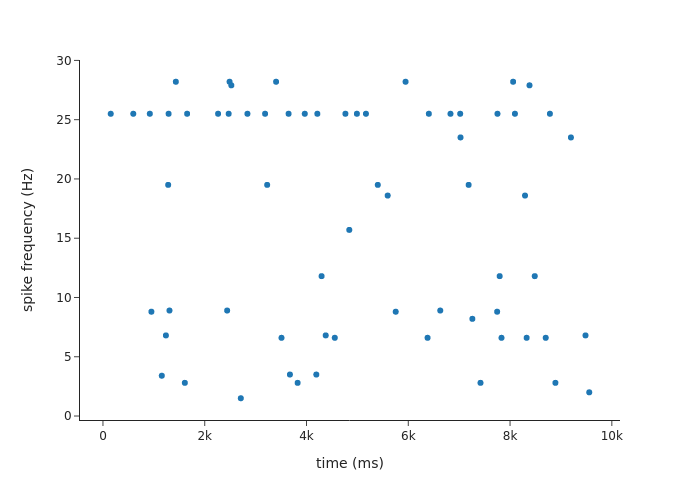
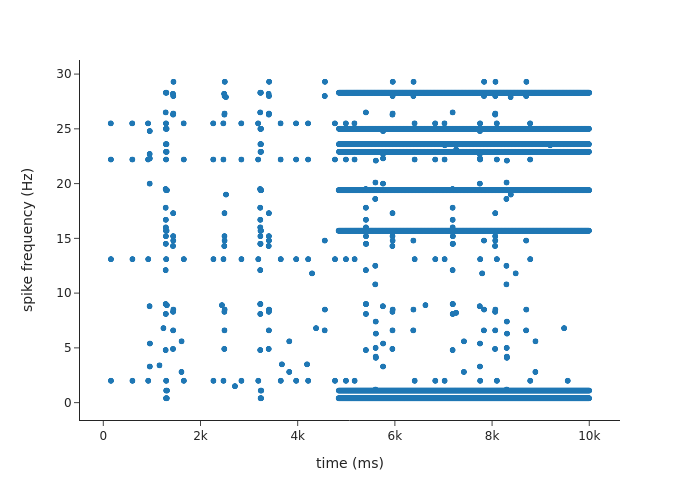
cutted 0

diff --git a/stats.py b/stats.py
@@ -1,0 +1,95 @@
+import scipy
+from scipy.stats import linregress
+import plotly.express as px
+import plotly.graph_objects as go
+import plotly.io as pio
+import numpy as np
+
+class RegressionImage:
+    def __init__(self, x, regression_info):
+        xmin = min(x)
+        xmax = max(x)
+        y1 = calc_regression_point(regression_info, xmin)
+        y_fin = calc_regression_point(regression_info, xmax)
+        self.x = [xmin, xmax]
+        self.y = [y1, y_fin]
+
+def calc_regression_point(regression_info, x=0):
+    return x * regression_info.slope + regression_info.intercept
+
+def obtain_regression_image(regression_info, domain):
+    return RegressionImage(domain, regression_info)
+
+def plot_regression(plot, yaxis, regr, x, y, info_regression):
+    plot.add_trace(go.Scatter(x= x, y= y, mode= "markers"))
+    plot.add_trace(go.Scatter(x= regr.x, y= regr.y, mode= "lines+text", name= "Regression", text=info_regression.rvalue**2))
+    plot.update_layout(xaxis_title="g_L", yaxis_title=yaxis)
+    plot.show()
+
+g_Ls = np.array([1.0, 2.0, 3.0, 4.0, 5.0, 6.0, 7.0, 8.0, 9.0, 10.0, 11.0, 12.0, 13.0, 14.0, 15.0, 16.0, 17.0, 18.0, 19.0, 20.0, 21.0, 22.0, 23.0, 24.0, 25.0, 26.0, 27.0, 28.0, 29.0, 30.0, 31.0, 32.0, 33.0, 34.0, 35.0, 36.0, 37.0, 38.0, 39.0, 40.0, 41.0, 42.0, 43.0, 44.0, 45.0, 46.0, 47.0, 48.0, 49.0, 50.0, 51.0, 52.0, 53.0, 54.0, 55.0, 56.0, 57.0, 58.0, 59.0, 60.0, 61.0, 62.0, 63.0, 64.0, 65.0, 66.0, 67.0, 68.0, 69.0, 70.0, 71.0, 72.0, 73.0, 74.0, 75.0, 76.0, 77.0, 78.0, 79.0, 80.0, 81.0, 82.0, 83.0, 84.0, 85.0, 86.0, 87.0, 88.0, 89.0, 90.0, 91.0, 92.0, 93.0, 94.0, 95.0, 96.0, 97.0, 98.0, 99.0, 100.0, 101.0])
+rheobase_freqs = np.array([11, 11, 11, 11, 20, 20, 20, 20, 20, 91, 91, 91, 95, 95, 123, 143, 143, 143, 143, 143, 164, 164, 164, 164, 225, 225, 225, 225, 225, 260, 260, 260, 260, 260, 260, 260, 260, 260, 260, 263, 263, 263, 263, 263, 263, 263, 337, 337, 337, 337, 372, 372, 372, 372, 372, 372, 372, 372, 372, 372, 372, 372, 570, 570, 594, 594, 594, 594, 594, 594, 594, 712, 712, 712, 712, 712, 712, 712, 712, 712, 712, 712, 712, 712])
+freqs_350 = np.array([12.0, 11.0, 10.0, 9.0, 9.0, 9.0, 9.0, 9.0, 9.0, 9.0, 8.0, 8.0, 7.0, 6.0, 6.0, 6.0, 6.0, 6.0, 5.0, 4.0, 4.0, 4.0, 4.0, 4.0, 4.0, 4.0, 4.0, 3.0, 2.0, 2.0, 2.0, 2.0, 2.0, 2.0, 2.0, 2.0, 2.0, 2.0, 2.0, 2.0, 2.0, 2.0, 2.0, 2.0, 1.0, 1.0, 1.0, 1.0, 1.0, 1.0, 0.0, 0.0, 0.0, 0.0, 0.0, 0.0, 0.0, 0.0, 0.0, 0.0, 0.0, 0.0, 0.0, 0.0, 0.0, 0.0, 0.0, 0.0, 0.0, 0.0, 0.0, 0.0, 0.0, 0.0, 0.0, 0.0, 0.0, 0.0, 0.0, 0.0, 0.0, 0.0, 0.0, 0.0, 0.0, 0.0, 0.0, 0.0, 0.0, 0.0, 0.0, 0.0, 0.0, 0.0, 0.0, 0.0, 0.0, 0.0, 0.0, 0.0, 0.0])
+freqs_500 = np.array([13.0, 12.0, 13.0, 11.0, 11.0, 11.0, 10.0, 10.0, 10.0, 9.0, 9.0, 9.0, 9.0, 9.0, 8.0, 8.0, 8.0, 8.0, 8.0, 7.0, 7.0, 6.0, 6.0, 6.0, 6.0, 6.0, 6.0, 6.0, 5.0, 5.0, 5.0, 4.0, 4.0, 4.0, 4.0, 4.0, 3.0, 3.0, 3.0, 2.0, 2.0, 2.0, 2.0, 2.0, 1.0, 1.0, 1.0, 1.0, 1.0, 1.0, 1.0, 1.0, 1.0, 1.0, 1.0, 1.0, 1.0, 1.0, 1.0, 1.0, 1.0, 1.0, 0.0, 0.0, 0.0, 0.0, 0.0, 0.0, 0.0, 0.0, 0.0, 0.0, 0.0, 0.0, 0.0, 0.0, 0.0, 0.0, 0.0, 0.0, 0.0, 0.0, 0.0, 0.0, 0.0, 0.0, 0.0, 0.0, 0.0, 0.0, 0.0, 0.0, 0.0, 0.0, 0.0, 0.0, 0.0, 0.0, 0.0, 0.0, 0.0])
+freqs_750 = np.array([16.0, 16.0, 14.0, 14.0, 14.0, 14.0, 13.0, 13.0, 13.0, 13.0, 13.0, 13.0, 11.0, 11.0, 11.0, 11.0, 11.0, 10.0, 10.0, 10.0, 10.0, 10.0, 9.0, 9.0, 8.0, 8.0, 8.0, 8.0, 8.0, 7.0, 7.0, 7.0, 6.0, 6.0, 6.0, 6.0, 5.0, 5.0, 4.0, 4.0, 4.0, 4.0, 3.0, 3.0, 3.0, 3.0, 3.0, 3.0, 2.0, 2.0, 2.0, 2.0, 2.0, 2.0, 2.0, 2.0, 1.0, 1.0, 1.0, 1.0, 1.0, 1.0, 1.0, 1.0, 1.0, 1.0, 1.0, 1.0, 1.0, 1.0, 1.0, 1.0, 1.0, 1.0, 1.0, 1.0, 1.0, 1.0, 1.0, 1.0, 1.0, 1.0, 1.0, 1.0, 0.0, 0.0, 0.0, 0.0, 0.0, 0.0, 0.0, 0.0, 0.0, 0.0, 0.0, 0.0, 0.0, 0.0, 0.0, 0.0, 0.0])
+freqs_1000 = np.array([18.0, 18.0, 18.0, 17.0, 17.0, 17.0, 17.0, 17.0, 17.0, 16.0, 16.0, 16.0, 16.0, 15.0, 15.0, 15.0, 15.0, 15.0, 15.0, 15.0, 14.0, 14.0, 13.0, 13.0, 13.0, 12.0, 12.0, 11.0, 11.0, 11.0, 10.0, 10.0, 10.0, 10.0, 10.0, 10.0, 9.0, 8.0, 8.0, 8.0, 8.0, 8.0, 8.0, 8.0, 7.0, 7.0, 7.0, 6.0, 6.0, 6.0, 6.0, 6.0, 6.0, 6.0, 5.0, 4.0, 4.0, 4.0, 4.0, 4.0, 4.0, 4.0, 3.0, 3.0, 3.0, 3.0, 3.0, 3.0, 2.0, 2.0, 2.0, 2.0, 2.0, 2.0, 2.0, 1.0, 1.0, 1.0, 1.0, 1.0, 1.0, 1.0, 1.0, 1.0, 0.0, 0.0, 0.0, 0.0, 0.0, 0.0, 0.0, 0.0, 0.0, 0.0, 0.0, 0.0, 0.0, 0.0, 0.0, 0.0, 0.0])
+g_Ls_for_rheobase = g_Ls[:len(rheobase_freqs)]
+freqs_350_nonzero = freqs_350[:np.count_nonzero(freqs_350)]
+g_Ls_350 = g_Ls[:len(freqs_350_nonzero)]
+freqs_500_nonzero = freqs_500[:np.count_nonzero(freqs_500)]
+g_Ls_500 = g_Ls[:len(freqs_500_nonzero)]
+freqs_750_nonzero = freqs_750[:np.count_nonzero(freqs_750)]
+g_Ls_750 = g_Ls[:len(freqs_750_nonzero)]
+freqs_1000_nonzero = freqs_1000[:np.count_nonzero(freqs_1000)]
+g_Ls_1000 = g_Ls[:len(freqs_1000_nonzero)]
+
+""" i don't want to lose all this stuff :(
+results_rheobase = scipy.stats.linregress(g_Ls_for_rheobase, rheobase_freqs)
+results_350 = scipy.stats.linregress(g_Ls, freqs_350)
+results_500 = scipy.stats.linregress(g_Ls, freqs_500)
+results_750 = scipy.stats.linregress(g_Ls, freqs_750)
+results_1000 = scipy.stats.linregress(g_Ls, freqs_1000)
+
+regr_rheobase = obtain_regression_image(results_rheobase, g_Ls_for_rheobase)
+regr_350 = obtain_regression_image(results_350, g_Ls)
+regr_500 = obtain_regression_image(results_500, g_Ls)
+regr_750 = obtain_regression_image(results_750, g_Ls)
+regr_1000 = obtain_regression_image(results_1000, g_Ls)
+
+pio.templates.default = "simple_white" # Sets the plotly default theme
+plot1 = px.scatter()
+plot2 = px.scatter()
+plot3 = px.scatter()
+plot4 = px.scatter()
+plot5 = px.scatter()
+
+plot_regression(plot1, "Rheobase frequency", regr_rheobase, g_Ls_for_rheobase, rheobase_freqs, results_rheobase)
+plot_regression(plot2, "Spikes/s at 350Hz input", regr_350, g_Ls, freqs_350, results_350)
+plot_regression(plot3, "Spikes/s at 500Hz input", regr_500, g_Ls, freqs_500, results_500)
+plot_regression(plot4, "Spikes/s at 750Hz input", regr_750, g_Ls, freqs_750, results_750)
+plot_regression(plot5, "Spikes/s at 1000Hz input", regr_1000, g_Ls, freqs_1000, results_1000)
+"""
+
+results_rheobase = scipy.stats.linregress(g_Ls_for_rheobase, rheobase_freqs)
+results_350 = scipy.stats.linregress(g_Ls_350, freqs_350_nonzero)
+results_500 = scipy.stats.linregress(g_Ls_500, freqs_500_nonzero)
+results_750 = scipy.stats.linregress(g_Ls_750, freqs_750_nonzero)
+results_1000 = scipy.stats.linregress(g_Ls_1000, freqs_1000_nonzero)
+
+regr_rheobase = obtain_regression_image(results_rheobase, g_Ls_for_rheobase)
+regr_350 = obtain_regression_image(results_350, g_Ls_350)
+regr_500 = obtain_regression_image(results_500, g_Ls_500)
+regr_750 = obtain_regression_image(results_750, g_Ls_750)
+regr_1000 = obtain_regression_image(results_1000, g_Ls_1000)
+
+pio.templates.default = "simple_white" # Sets the plotly default theme
+plot1 = px.scatter()
+plot2 = px.scatter()
+plot3 = px.scatter()
+plot4 = px.scatter()
+plot5 = px.scatter()
+
+plot_regression(plot1, "Rheobase frequency", regr_rheobase, g_Ls_for_rheobase, rheobase_freqs, results_rheobase)
+plot_regression(plot2, "Spikes/s at 350Hz input", regr_350, g_Ls_350, freqs_350_nonzero, results_350)
+plot_regression(plot3, "Spikes/s at 500Hz input", regr_500, g_Ls_500, freqs_500_nonzero, results_500)
+plot_regression(plot4, "Spikes/s at 750Hz input", regr_750, g_Ls_750, freqs_750_nonzero, results_750)
+plot_regression(plot5, "Spikes/s at 1000Hz input", regr_1000, g_Ls_1000, freqs_1000_nonzero, results_1000)

diff --git a/first_network/script.py b/first_network/script.py
@@ -3,56 +3,60 @@ import plotly.express as px
 import plotly.io as pio
 
 #network setting
-n = 300 #neurons
-p = .003 #connection probability
-n_recorded = 50 #neuron recorded
-n_excited = 20 #neuron excited by input
-conn_dict = {"rule": "pairwise_bernoulli", "p": p}
-weight = 1.0
-syn_dict = {"model": "stdp_synapse", "weight": weight}
-#simulation setting
-scale_size = 1000.0
-time = 10.0 * scale_size
-rec_dic = {"rule": "fixed_total_number", "N": n_recorded}
-#neuron model
-params = {
-    "t_ref": 1.59,
-    "C_m": 14.6,
-    "V_th": -60.0,
-    "V_reset": -78.0,
-    "E_L": -66.0,
-    "tau_syn_ex": 0.64,
-    "tau_syn_in": 2.0
-}
-nest.CopyModel("aeif_cond_alpha", "leaky_i_f", params=params)
-#input
-input_dict = {"rate": 150.0}
-input_conn = {"rule": "fixed_total_number", "N": n_excited}
+def create_network(n=300, p=.003):
+    n = 300 #neurons
+    p = .003 #connection probability
+    n_recorded = 50 #neuron recorded
+    n_excited = 20 #neuron excited by input
+    conn_dict = {"rule": "pairwise_bernoulli", "p": p}
+    weight = 5.0
+    syn_dict = {"model": "stdp_synapse", "weight": weight}
+    #simulation setting
+    scale_size = 1000.0
+    time = 10.0 * scale_size
+    rec_dic = {"rule": "fixed_total_number", "N": n_recorded}
+    #neuron model
+    params = {
+        "t_ref": 1.59,
+        "C_m": 14.6,
+        "V_th": -60.0,
+        "V_reset": -78.0,
+        "E_L": -66.0,
+        "tau_syn_ex": 0.64,
+        "tau_syn_in": 2.0
+    }
+    nest.CopyModel("aeif_cond_alpha", "leaky_i_f", params=params)
+    #input
+    input_dict = {"rate": 150.0}
+    input_conn = {"rule": "fixed_total_number", "N": n_excited}
 
-nest.ResetKernel()
-nest.CopyModel("aeif_cond_alpha", "leaky_i_f", params=params)
+    nest.ResetKernel()
+    nest.CopyModel("aeif_cond_alpha", "leaky_i_f", params=params)
 
-#building network
-input_curr = nest.Create("poisson_generator", params = input_dict)
-neuron_pop = nest.Create("leaky_i_f", n, params = params)
+    #building network
+    input_curr = nest.Create("poisson_generator", params = input_dict)
+    neuron_pop = nest.Create("leaky_i_f", n, params = params)
 
-nest.Connect(input_curr, neuron_pop, input_conn) #input
-nest.Connect(neuron_pop, neuron_pop, conn_dict, syn_spec= syn_dict) #inter-network connections
-#recording
-spikeDet = nest.Create("spike_detector", n_recorded, params = {"withgid": True, "withtime": True})
-nest.Connect(neuron_pop, spikeDet)
-#simulating
-nest.Simulate(time)
+    nest.Connect(input_curr, neuron_pop, input_conn) #input
+    nest.Connect(neuron_pop, neuron_pop, conn_dict, syn_spec= syn_dict) #inter-network connections
+    #recording
+    spikeDet = nest.Create("spike_detector", params = {"withgid": True, "withtime": True})
+    nest.Connect(neuron_pop, spikeDet)
+    #simulating
+    nest.Simulate(time)
 
-#recording vars
-var = nest.GetStatus(spikeDet, keys = "events")[0]
-spikes = var["senders"]
-spike_freq = spikes * scale_size / time
-t = var["times"]
-#plotting
-pio.templates.default = "simple_white" # Sets the plotly default theme
-plot = px.scatter(x = t, y = spike_freq, labels = { 'x': 'time (ms)', 'y': 'spike frequency (Hz)' })
-plot.show()
-#plot.write_image("plots/rheobase_freq_noprop.png")
-plot.write_image("plots/rheobase_freq_prop.png")
-#plot.write_image("plots/rheobase_freq_highprop.png")
+    #recording vars
+    var = nest.GetStatus(spikeDet, keys = "events")
+    print(var)
+    spikes = var[0]["senders"]
+    spike_freq = spikes * scale_size / time
+    t = var[0]["times"]
+    #plotting
+    pio.templates.default = "simple_white" # Sets the plotly default theme
+    plot = px.scatter(x = t, y = spike_freq, labels = { 'x': 'time (ms)', 'y': 'spike frequency (Hz)' })
+    plot.show()
+    #plot.write_image("plots/rheobase_freq_noprop.png")
+    plot.write_image("plots/rheobase_freq_prop.png")
+    #plot.write_image("plots/rheobase_freq_highprop.png")
+
+create_network()

diff --git a/g_L_investigation/single_point.py b/g_L_investigation/single_point.py
@@ -3,6 +3,8 @@ import plotly.express as px
 import plotly.graph_objects as go
 import numpy as np
 import os
+import scipy
+from scipy.stats import linregress
 
 #setting working directory path
 root= r"C:\\Users\\Utente\\GIT\\internship\\images"
@@ -90,6 +92,12 @@ print(freqs_350)
 print(freqs_500)
 print(freqs_750)
 print(freqs_1000)
+
+regr_leak_con = scipy.stats.linregress(g_Ls, rheobase_freqs)
+regr_350 = scipy.stats.linregress(g_Ls, freqs_350)
+regr_500 = scipy.stats.linregress(g_Ls, freqs_500)
+regr_750 = scipy.stats.linregress(g_Ls, freqs_750)
+regr_1000 = scipy.stats.linregress(g_Ls, freqs_1000)
     
 #setting plots
 plot1 = px.scatter(x= g_Ls, y= rheobase_freqs, labels={'x': 'Leak conductance', 'y': 'Rheobase frequency'})
@@ -100,10 +108,10 @@ addTrace(freqs_750, "750Hz", "rgba(2, 35, 250, .5)")
 addTrace(freqs_1000, "1000Hz", "rgba(255, 16, 0, .5)")
 
 #plotting
-plot1.show()
-plot2.show()
+#plot1.show()
+#plot2.show()
 
 
 #save imgs
-plot1.write_image("rheobase_freq.png")
-plot2.write_image("spike_s_freqs.png")
+#plot1.write_image("rheobase_freq.png")
+#plot2.write_image("spike_s_freqs.png")
